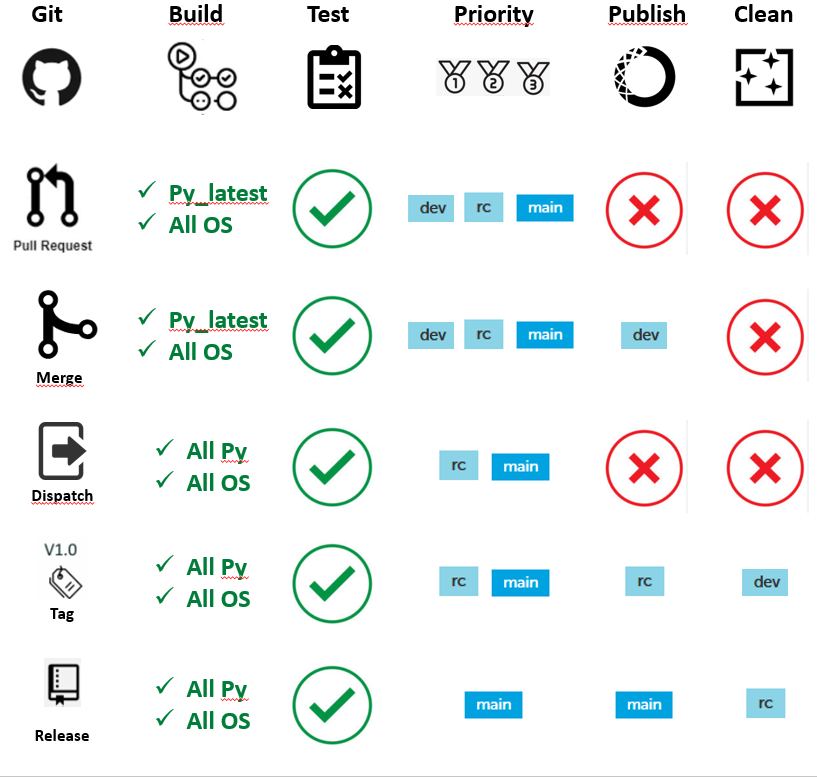
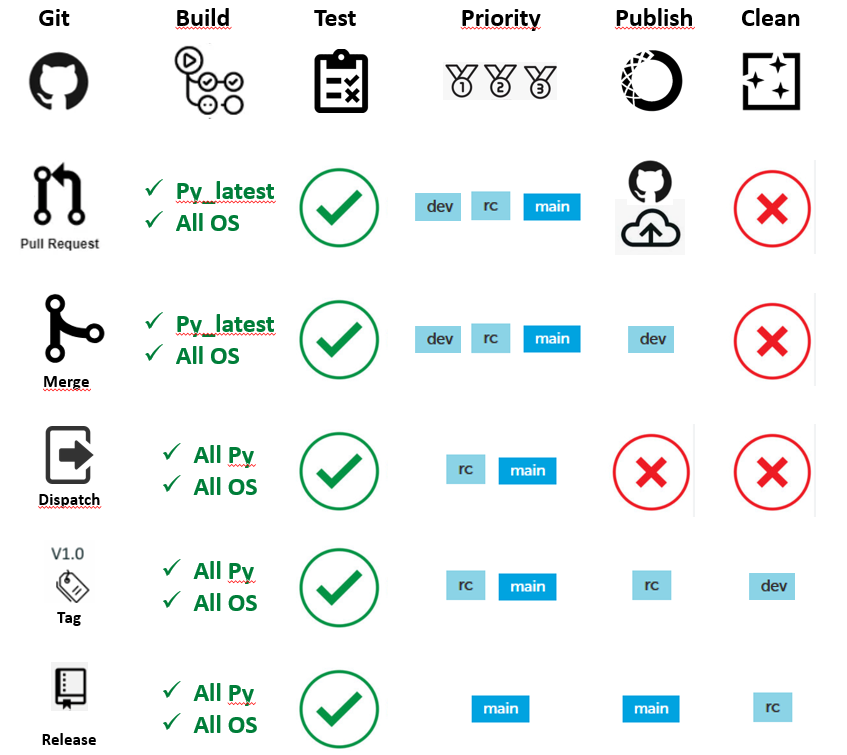
update doc

diff --git a/README.md b/README.md
@@ -9,7 +9,7 @@ These actions have been primariliy developed for the needs of [`OpenAlea` projec
 The associated development workflow is:
 - create a branch for new development
 - push on git (CI does nothing at this stage)
-- when done, open a PR (CI will build on py_latest and test the package, but do not publish it)
+- when done, open a PR (CI will build on py_latest, upload an build artifact on action page, and test the package, but do not publish it on anaconda)
 - check CI results, ask for review, ammend PR (CI is re-run after each push)
 - when CI and review are okay, merge PR (CI will build on py_latest and publish on dev channel)
 - repeat open branch / PR / merge as much as needed
